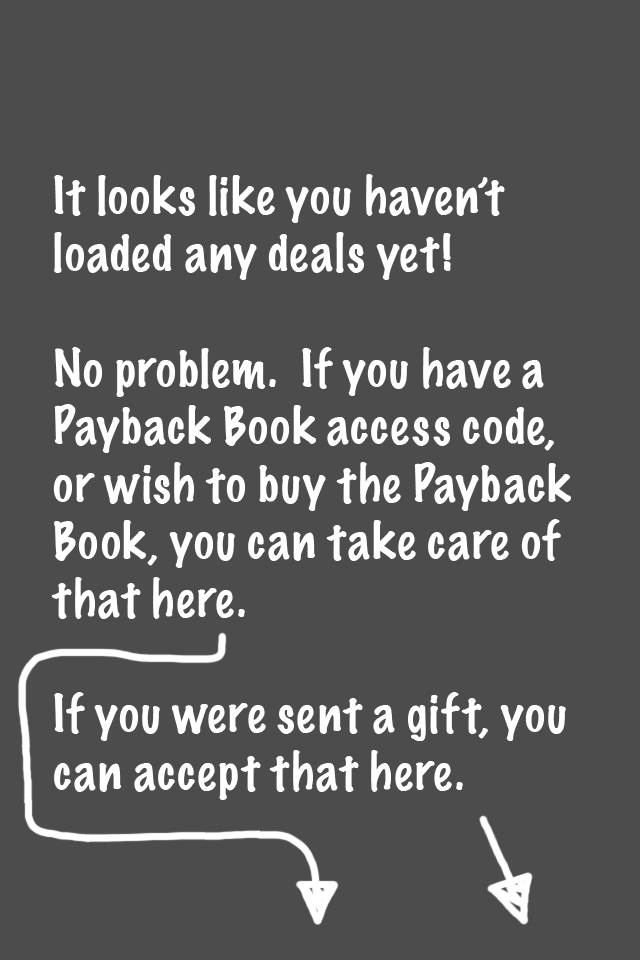
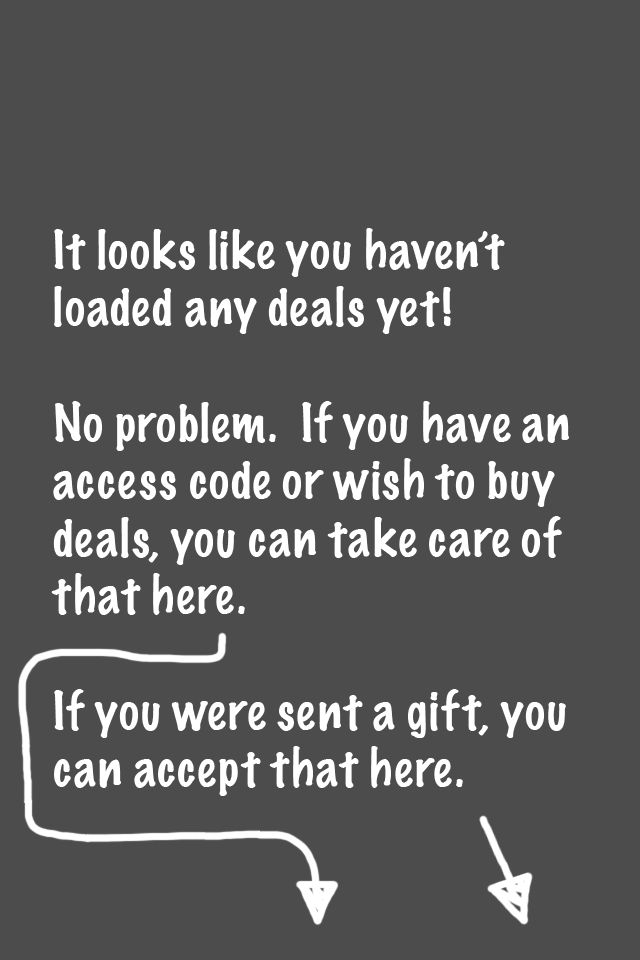
* update images to remove references to Payback * remove caching from fetched results controllers so lists update more quickly

Changed region(s): [[0.0625, 0.1875, 0.9062, 0.6562], [0.0938, 0.7188, 0.75, 0.8438], [0.7812, 0.7188, 0.875, 0.7812]]

diff --git a/mobile/MyDealsViewController.m b/mobile/MyDealsViewController.m
@@ -35,7 +35,6 @@
 @property (nonatomic, retain) NSArray *sortDescriptors;
 @property (nonatomic, retain) NSFetchedResultsController *fetchedResultsController;
 @property (strong, nonatomic) MerchantTableViewController *detailView;
-@property (strong, nonatomic) NSString *cacheName;
 @property BOOL resetAfterLogin;
 @end
 
@@ -69,7 +68,6 @@
     _sortDescriptors = [NSArray arrayWithObjects:
                         [NSSortDescriptor sortDescriptorWithKey:@"name" ascending:YES],
                         nil];
-    _cacheName = @"MyDeals";
     
     [self resetFetchedResultsController:NO];
     
@@ -227,7 +225,7 @@
     [[NSFetchedResultsController alloc] initWithFetchRequest:fetchRequest
                                         managedObjectContext:[CustomerHelper getContext]
                                           sectionNameKeyPath:nil
-                                                   cacheName:_cacheName];
+                                                   cacheName:nil];
     theFetchedResultsController.delegate = self;
     
     return theFetchedResultsController;
@@ -236,7 +234,6 @@
 - (void) resetFetchedResultsController:(BOOL)hard
 {
     [[CustomerHelper getContext] processPendingChanges];
-    [NSFetchedResultsController deleteCacheWithName:_cacheName];
     if (hard)
     {
         _fetchedResultsController = nil;
@@ -379,12 +376,6 @@
 - (void) merchantOperationComplete:(NSDictionary *)response
 {
     [self resetFetchedResultsController:NO];
-    BOOL locationEnabledUpdate = [[response objectForKey:DELEGATE_RESPONSE_LOCATION_ENABLED] boolValue];
-    if (locationEnabledUpdate)
-    {
-#warning "a hard refresh will for all the locations to update, but it also moves the list scroll to the top"
-        [self resetFetchedResultsController:YES];
-    }
 }
 
 #pragma mark -

diff --git a/mobile/ActivityViewController.m b/mobile/ActivityViewController.m
@@ -34,7 +34,6 @@
 @interface ActivityViewController ()
 @property (nonatomic, retain) NSArray *sortDescriptors;
 @property (nonatomic, retain) NSFetchedResultsController *fetchedResultsController;
-@property (strong, nonatomic) NSString *cacheName;
 @property BOOL resetAfterLogin;
 @end
 
@@ -58,7 +57,6 @@
                         [NSSortDescriptor sortDescriptorWithKey:@"activityDate" ascending:NO],
                         [NSSortDescriptor sortDescriptorWithKey:@"activityId" ascending:NO],
                         nil];
-    _cacheName = @"MyActivity";
     
     [self resetFetchedResultsController:NO];
     
@@ -194,7 +192,7 @@
     [[NSFetchedResultsController alloc] initWithFetchRequest:fetchRequest
                                         managedObjectContext:[CustomerHelper getContext]
                                           sectionNameKeyPath:nil
-                                                   cacheName:_cacheName];
+                                                   cacheName:nil];
     theFetchedResultsController.delegate = self;
     
     return theFetchedResultsController;
@@ -203,7 +201,6 @@
 - (void) resetFetchedResultsController:(BOOL)hard
 {
     [[CustomerHelper getContext] processPendingChanges];
-    [NSFetchedResultsController deleteCacheWithName:_cacheName];
     if (hard)
     {
         _fetchedResultsController = nil;
